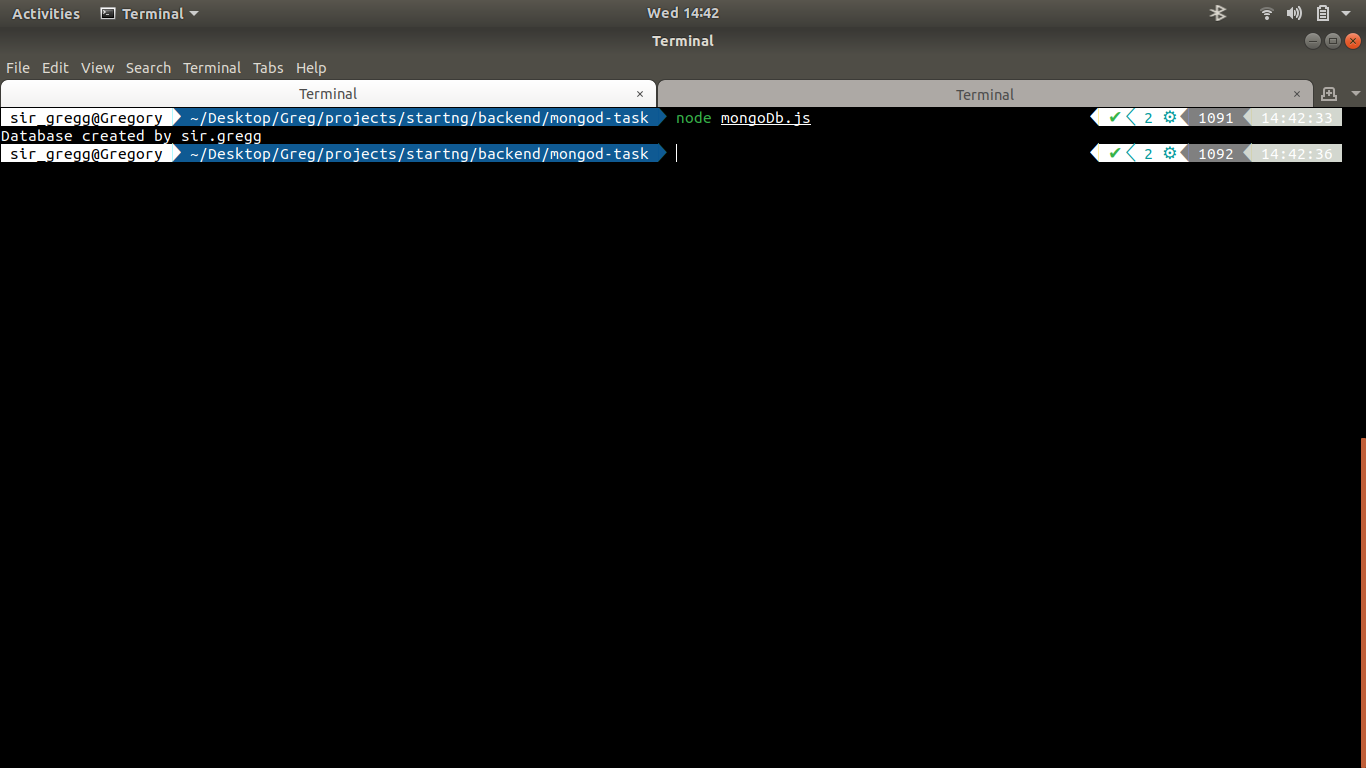
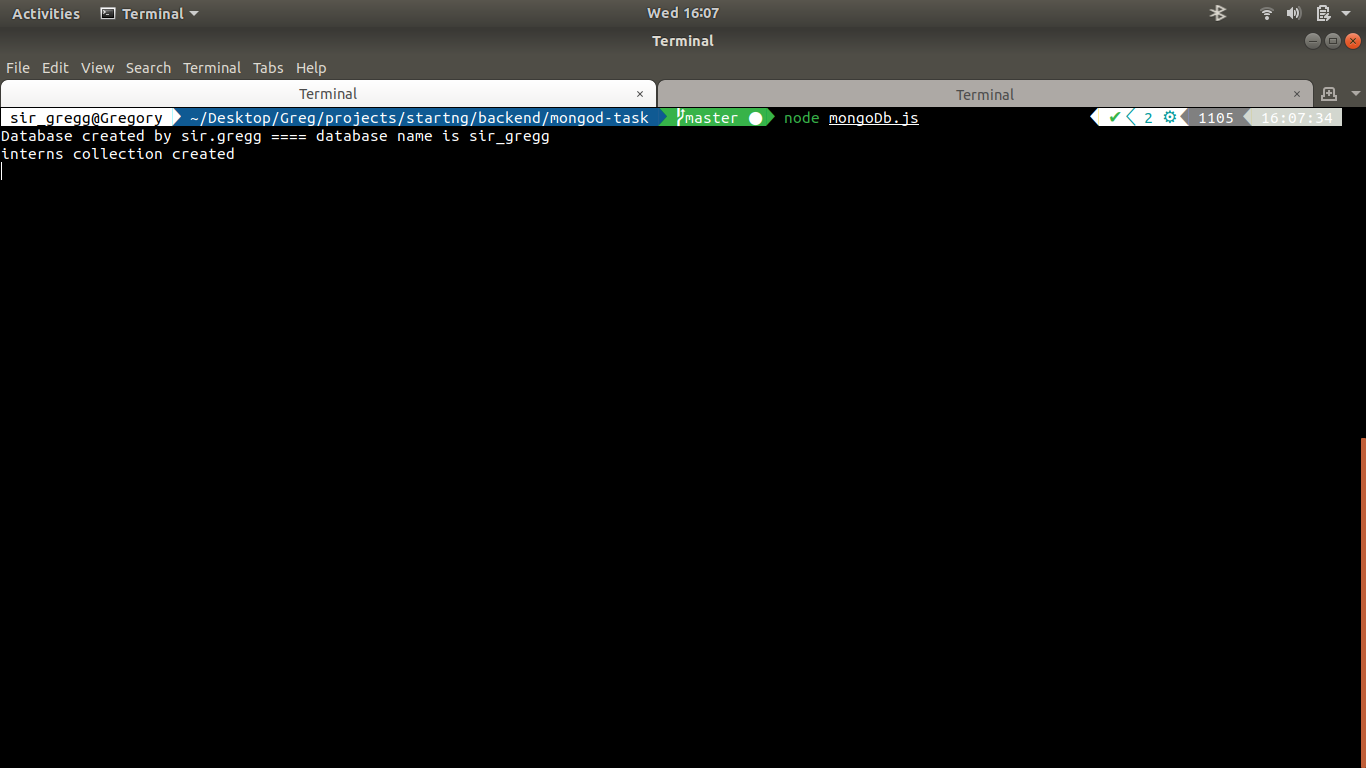
edited readme

diff --git a/mongoDb.js b/mongoDb.js
@@ -14,7 +14,7 @@ const useUnifiedTopology = { useUnifiedTopology: true };
 MongoClient.connect(url, useUnifiedTopology, (err, client) => {
     if (err) throw err;
 
-    console.log('Database created by sir.gregg');
+    console.log(`Database created by sir.gregg ==== database name is ${dbName}`);
 
     const db = client.db(dbName);
     

diff --git a/README.md b/README.md
@@ -1,7 +1,20 @@
 # mongodb-basics
+Mongo DB is a non relational database.
 
+## installation link
+https://docs.mongodb.com/manual/installation/
+
+## install on Ubuntu
+https://docs.mongodb.com/manual/tutorial/install-mongodb-on-ubuntu/
+
+## after installation, a screenshot displaying mongodb is running properly
 <img src='./img/mongod-start.png'>
 
-<img src='img/database-creation.png'>
-<img src=''>
-<img src=''>
+## a screenshot displaying a database was created
+<img src='./img/database-creation.png'>
+
+## a screenshot displaying a collection named interns was created
+<img src='./img/collection-interns.png'>
+
+## a screenshot displaying a record in the database
+<img src='./img/records.png'>
